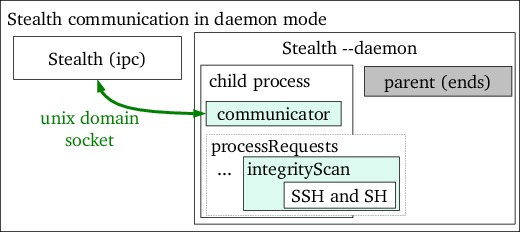
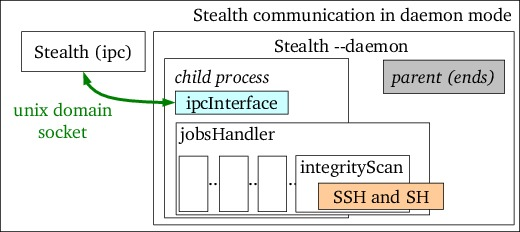
Updated README.flow and figures

Changed region(s): [[0.0, 0.0302, 1.0, 0.9957]]

diff --git a/stealth/stealth/ipcinterface.cc b/stealth/stealth/ipcinterface.cc
@@ -18,8 +18,10 @@ void Stealth::ipcInterface()
         if (not (in >> request).ignore(numeric_limits<int>::max(), '\n')) 
             request = UNKNOWN;
 
-        d_pending.setMode(RunMode::validate(request));
-        string answer = (this->*s_request.find(d_pending.mode())->second)();
+        RunMode incoming;
+        incoming.setMode(RunMode::validate(request));
+
+        string answer = (this->*s_request.find(incoming.mode())->second)();
 
         if (not answer.empty())         // error or no operation (nop)
         {
@@ -31,6 +33,8 @@ void Stealth::ipcInterface()
                                         // read the next request
         }
 
+        d_pending = incoming;
+
         d_ipc.wait();                   // wait until an IPC command can be
                                         // accepted
 
@@ -38,7 +42,7 @@ void Stealth::ipcInterface()
                                         // texts indicates so.
 
         d_task = d_pending;             // set the next request
-        d_pending.setMode(UNKNOWN);        // clear the pending request
+        d_pending.setMode(UNKNOWN);     // clear the pending request
 
         d_job.notify();                 // notify processRequests (i.e., 
     }

diff --git a/stealth/stealth/stealth.h b/stealth/stealth/stealth.h
@@ -19,8 +19,8 @@ class Stealth: public StealthEnums, public FBB::Fork
 {
     Options &d_options;
 
-    RunMode d_task;                  // the current run-mode.
-    RunMode d_pending;               // a pending run-mode.
+    RunMode d_task;                 // the current run-mode.
+    RunMode d_pending;              // a pending run-mode.
 
     FBB::Semaphore d_ipc;           // Folowing wait Stealth is available
                                     // for the next ipc-command
